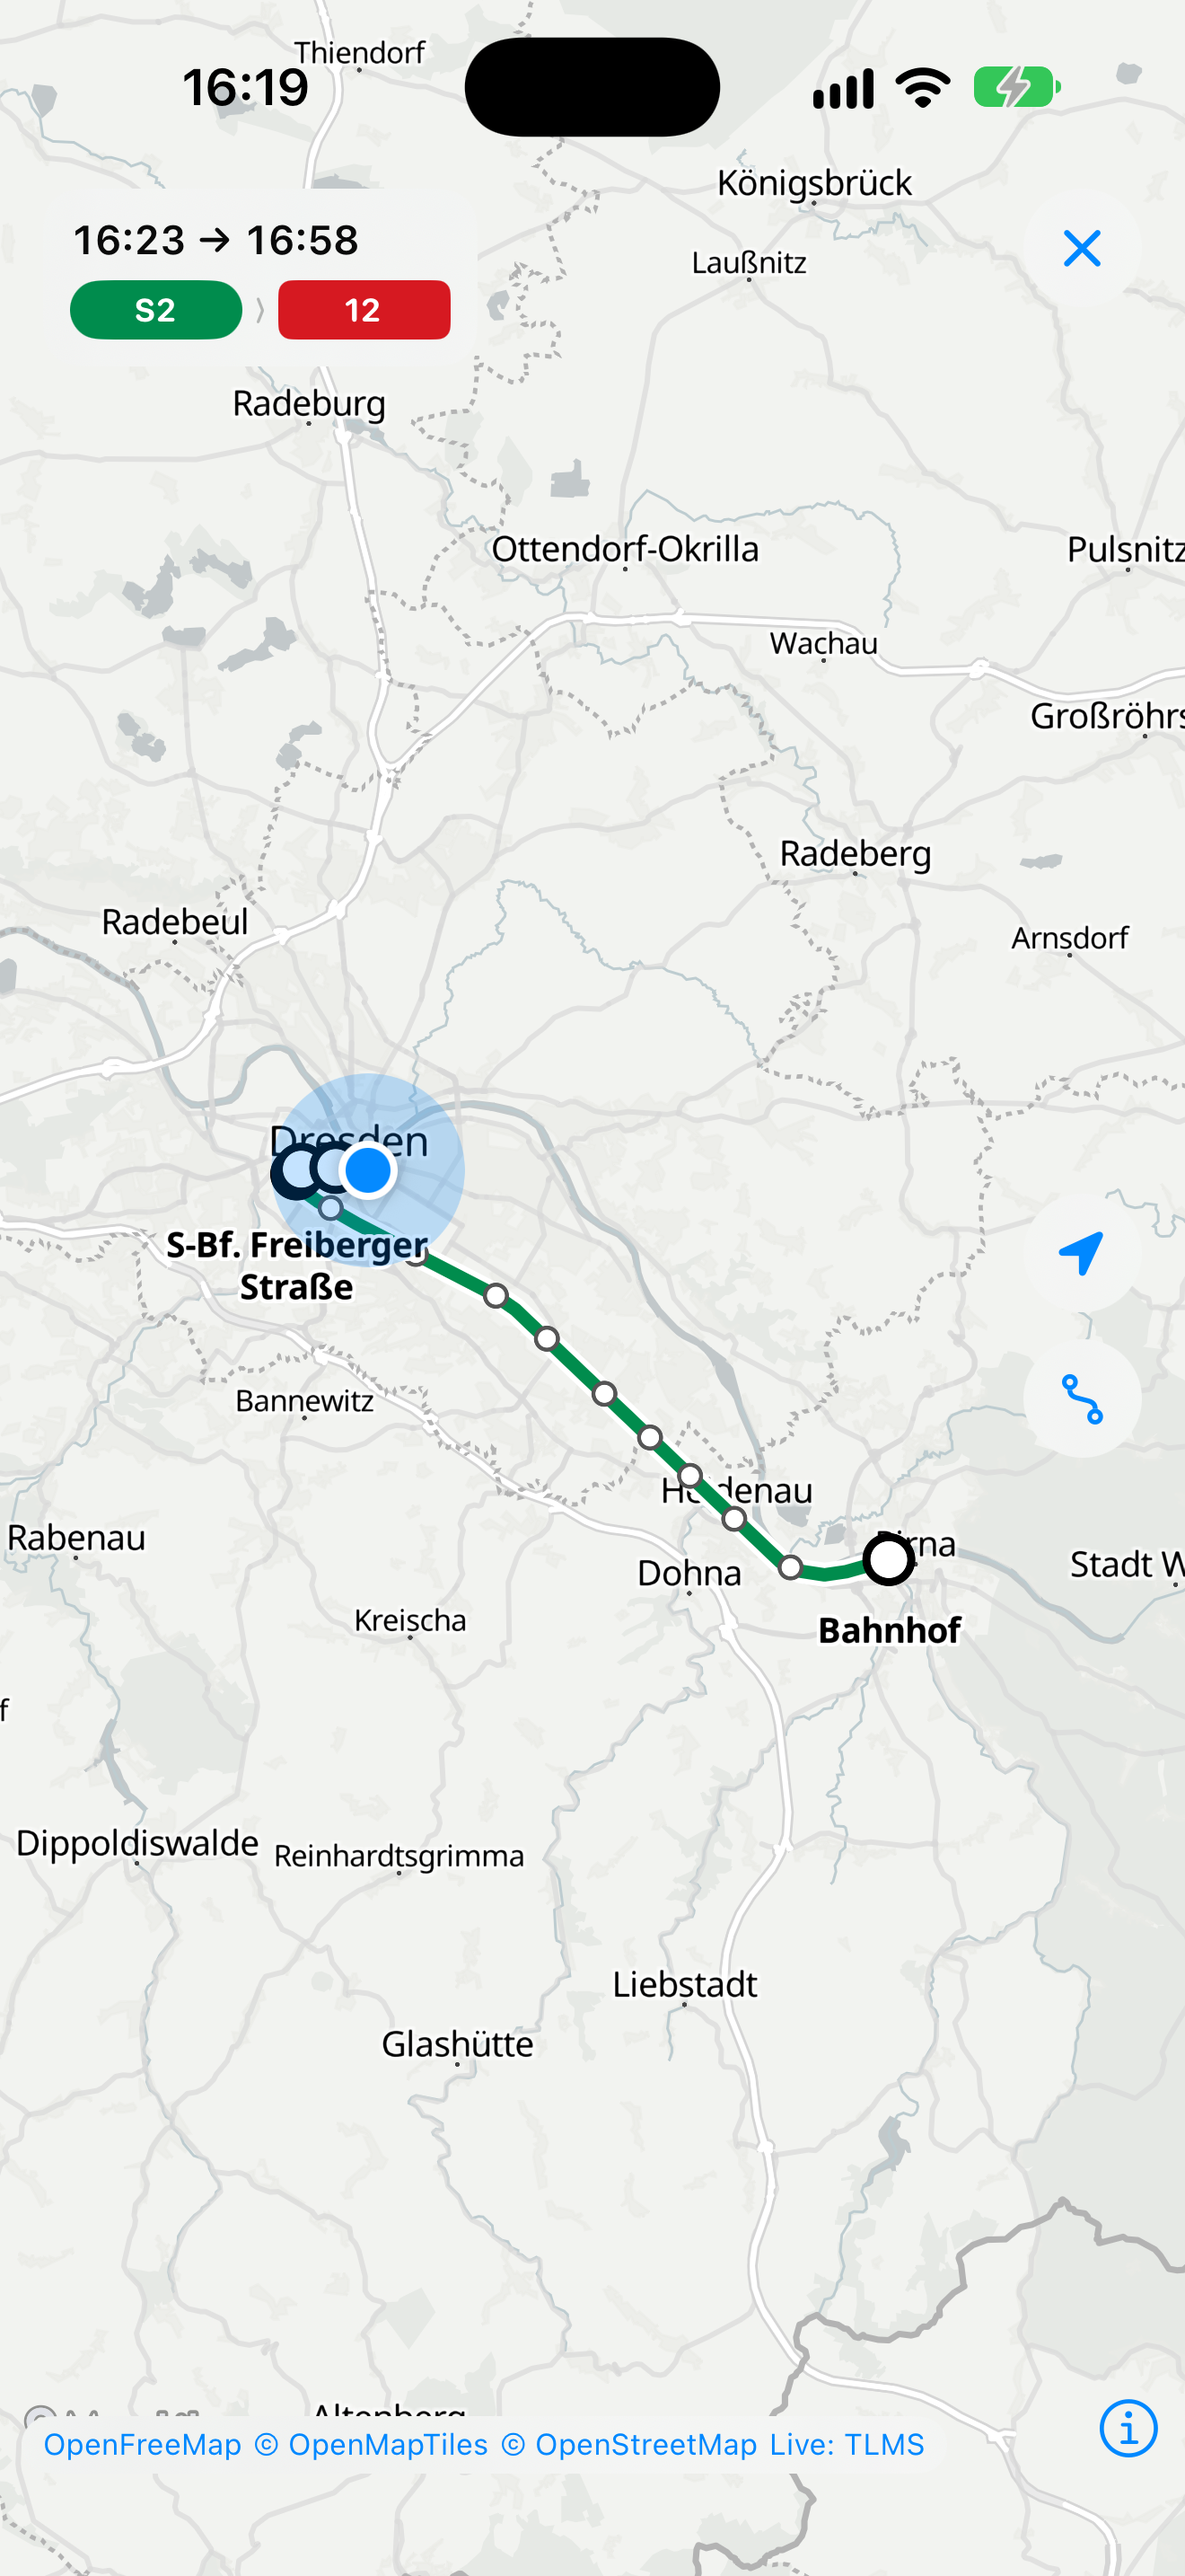
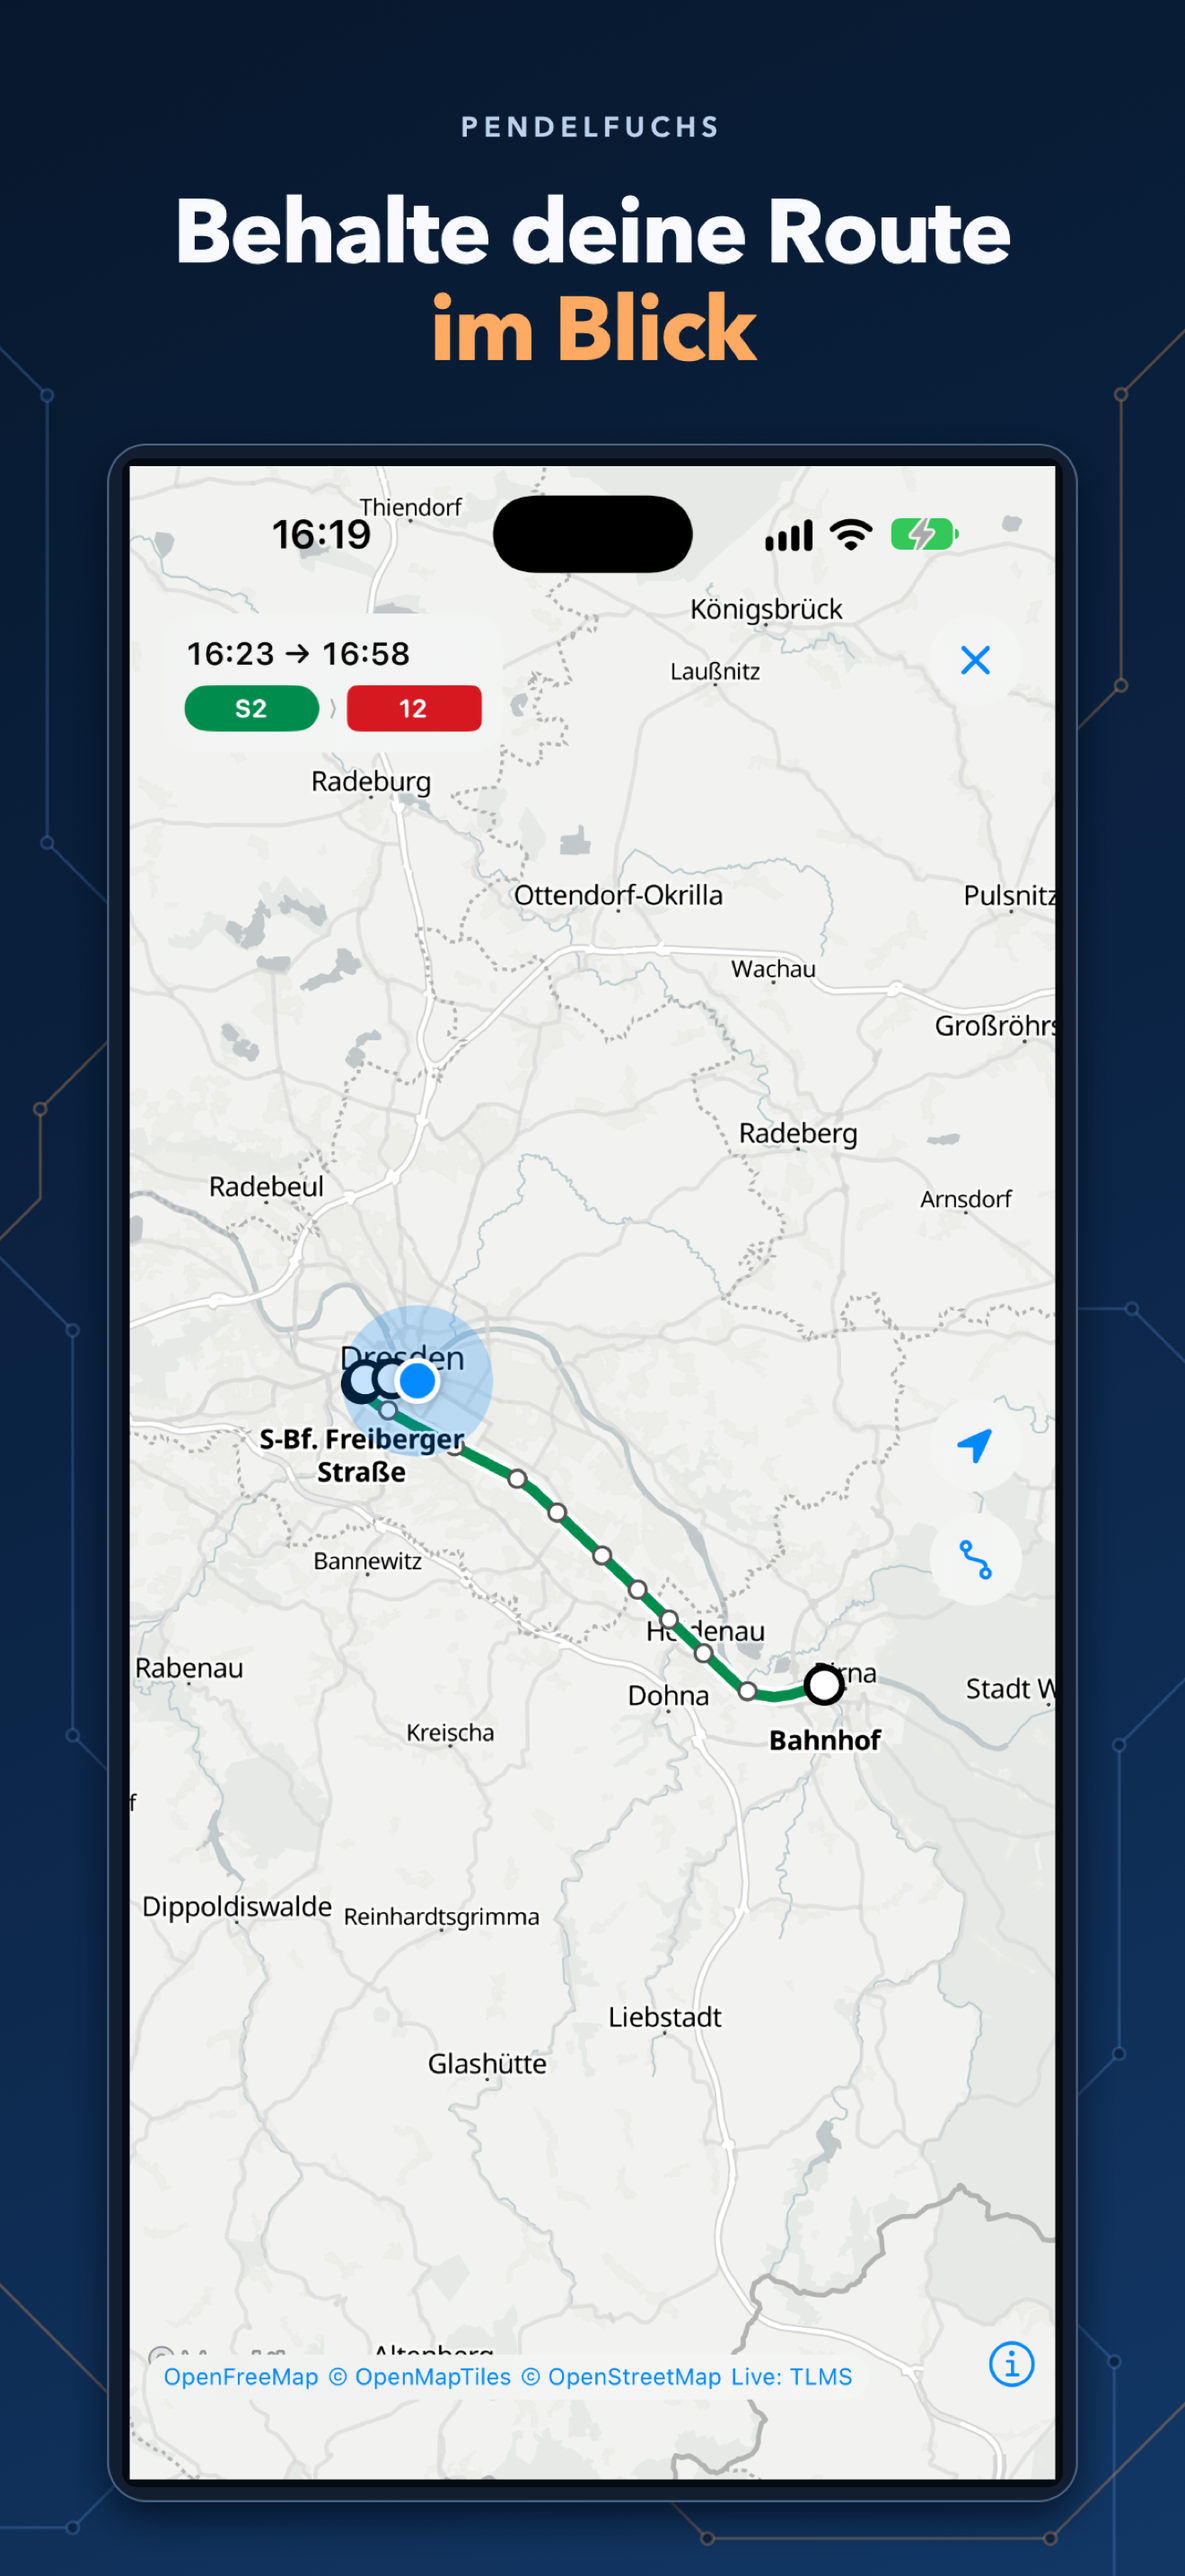
Gestaltete App-Store-Bilder übernehmen
Bilder mit Überschrift und Geräterahmen, von 1206 × 2622 auf die
6,9-Zoll-Größe 1320 × 2868 hochgerechnet. Die Simulator-Aufnahmen
liegen jetzt in design/app-store/roh/.

diff --git a/docs/APP-STORE.md b/docs/APP-STORE.md
@@ -152,18 +152,22 @@ Pflicht ist ein Satz für das **6,9-Zoll-iPhone** (Hochformat **1320 × 2868** P
 Transparenz, 1 bis 10 Bilder). App Store Connect verkleinert ihn selbst für kleinere iPhones. Aufnehmen im
 Simulator „iPhone 18 Pro Max“ – der hat genau diese Größe.
 
-Aufgenommen am 27.11.2026 in `design/app-store/` (alle 1320 × 2868, PNG ohne Transparenz), in dieser Reihenfolge hochladen:
-1. `01-meine-fahrten.png` – Meine Fahrten mit zwei regelmäßigen Fahrten, „pünktlich“
-2. `02-live-aktivitaet.png` – Live-Aktivität auf dem Sperrbildschirm („in 12 Minuten“)
-3. `03-abfahrten.png` – Abfahrten Dresden Hauptbahnhof mit Echtzeit, Auslastung und Ausfall
-4. `04-verbindungssuche.png` – Pirna → Dresden Postplatz mit Preisen
-5. `05-verbindung.png` – Verbindung mit Zeitleiste, Preis und Tarifzonen
-6. `06-karte.png` – Karte mit Streckenverlauf
-7. `07-widgets.png` – Widgets „Meine nächste Fahrt“ und „Abfahrten“, Countdown in der Dynamic Island
-8. `08-erinnerung.png` – Erinnerung vor der Abfahrt mit Knopf „Live-Aktivität starten“
+Fertige Bilder in `design/app-store/` (1320 × 2868, PNG ohne Transparenz): mit Überschrift und Geräterahmen
+gestaltet, aus 1206 × 2622 auf die 6,9-Zoll-Größe hochgerechnet. Die unbearbeiteten Simulator-Aufnahmen liegen in
+`design/app-store/roh/`. In dieser Reihenfolge hochladen:
 
-Schönheitsfehler: Auf dem Sperrbildschirm (Bild 2) steht oben links „Carrier“ – der Simulator lässt sich dort nicht
-umbenennen. Bei Bedarf in einem Bildprogramm übermalen.
+| Datei | Überschrift | Inhalt |
+|---|---|---|
+| `01-meine-fahrten.png` | Dein Arbeitsweg. Einfacher. | Zwei regelmäßige Fahrten, „pünktlich“ |
+| `02-live-aktivitaet.png` | Deine Fahrt in Echtzeit | Live-Aktivität auf dem Sperrbildschirm |
+| `03-abfahrten.png` | Alle Abfahrten im Blick | Dresden Hauptbahnhof mit Echtzeit, Auslastung, Ausfall |
+| `04-verbindungssuche.png` | Finde deine nächste Verbindung | Pirna → Dresden Postplatz mit Preisen |
+| `05-verbindung.png` | Entspannt ans Ziel | Zeitleiste, Preis, Tarifzonen |
+| `06-karte.png` | Behalte deine Route im Blick | Karte mit Streckenverlauf |
+| `07-widgets.png` | Alles auf deinem Homescreen | Widgets und Countdown in der Dynamic Island |
+| `08-erinnerung.png` | Verpasse keine Abfahrt | Erinnerung mit Knopf „Live-Aktivität starten“ |
+
+Schönheitsfehler: Auf Bild 2 steht oben links „Carrier“ (Simulator). Bei Bedarf übermalen.
 
 ## Vor dem ersten Hochladen
 
